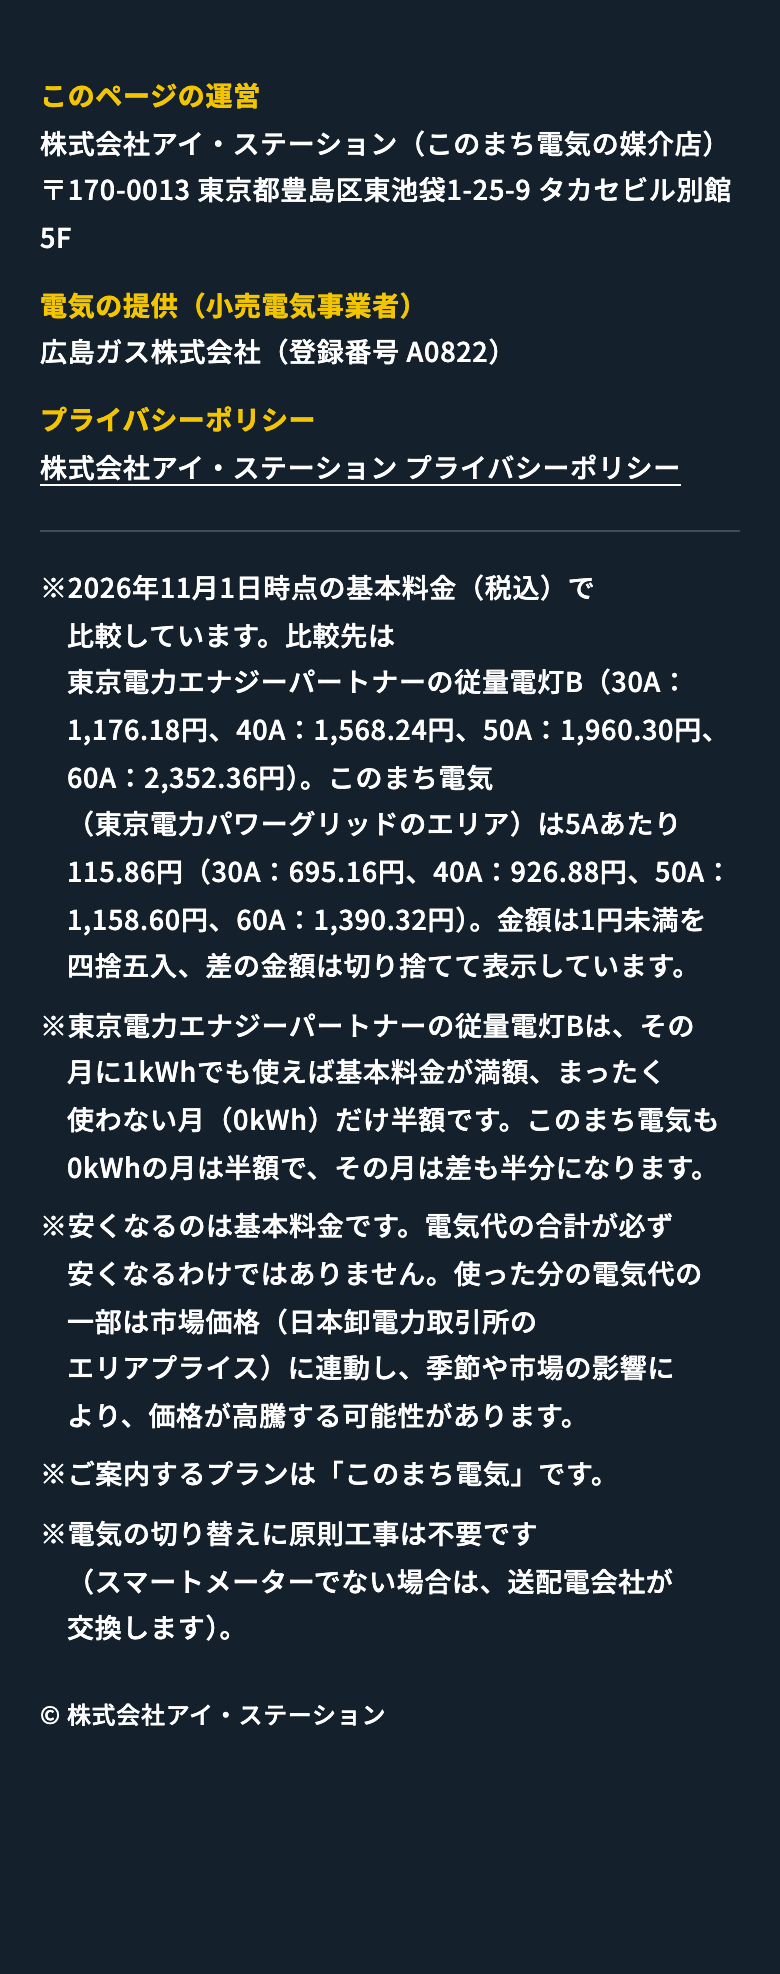
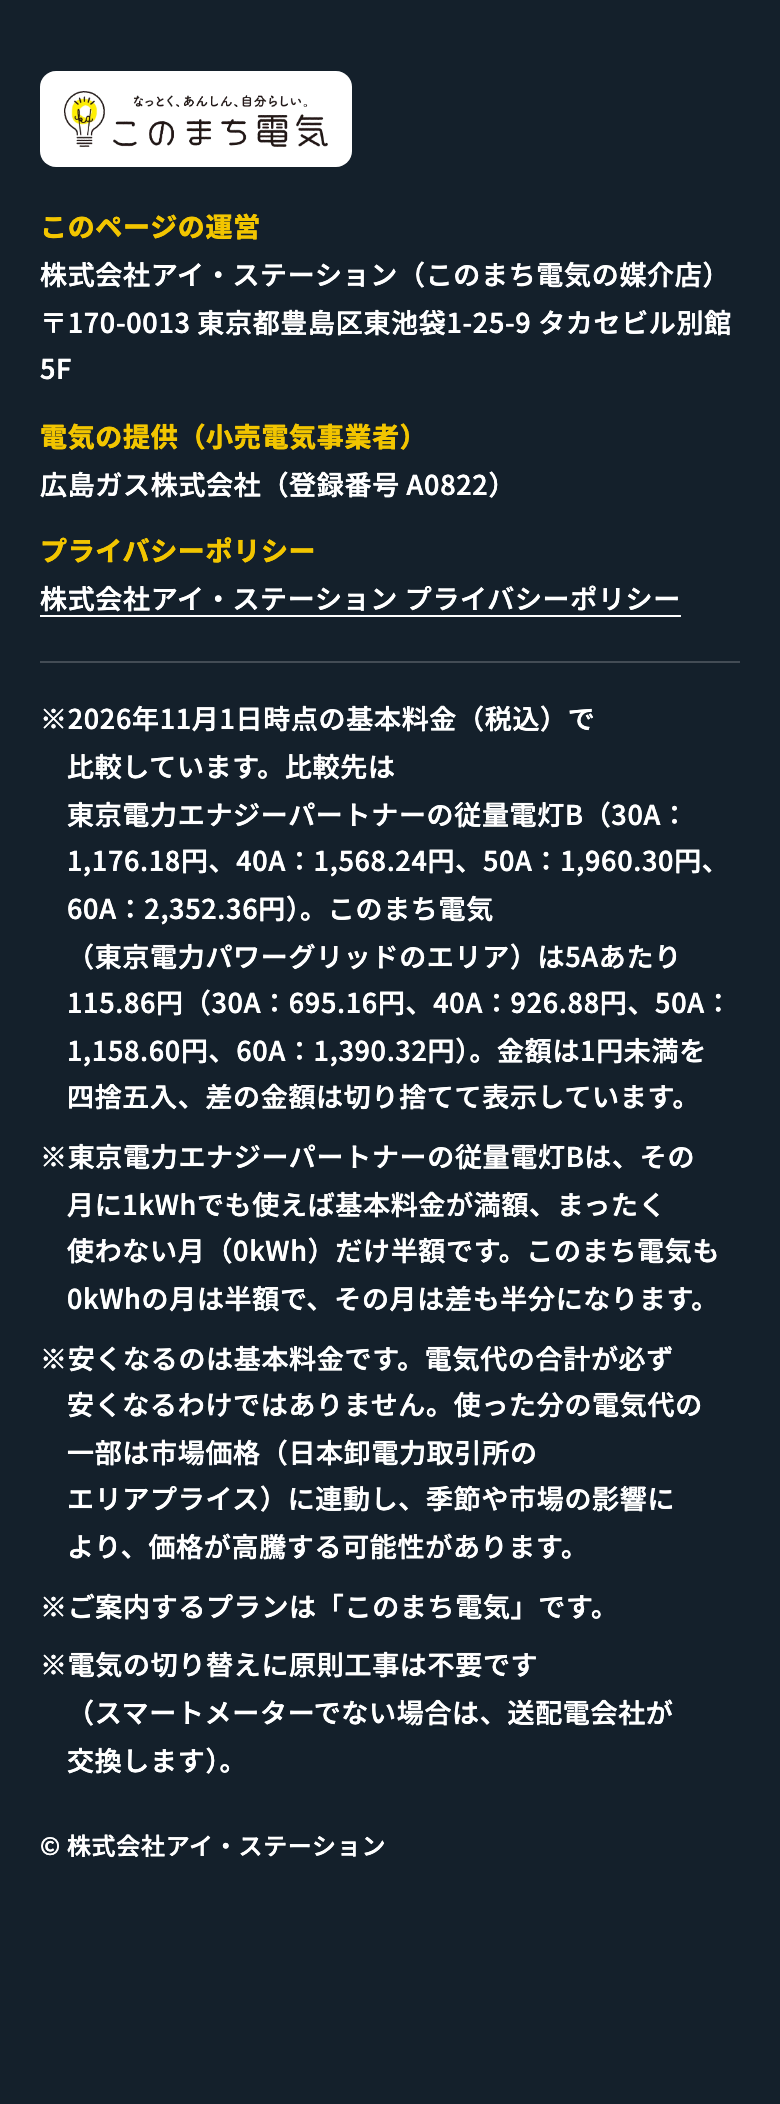
このまち電気LP比較ページ：ロゴの項目を「残して余白を修正」に差し替え
- 項目1を「ロゴ削除」から「ロゴは残し、まわりの余白を修正」に書き換え
- フッターのロゴ（修正前＝余白不足／修正後）の比較画像を追加
- 修正後のヘッダー・フッター画像を撮り直し

Claude-Session: https://claude.ai/code/session_01LnVQ1qzCtuCB4wM37JjTw1

Changed region(s): [[0.0308, 0.0309, 0.9538, 0.8961], [0.3077, 0.8652, 0.4923, 0.8961]]

diff --git a/konomachi-lp-0baec9/compare/index.html b/konomachi-lp-0baec9/compare/index.html
@@ -28,11 +28,13 @@ h1{font-size:24px;margin:0 0 4px}.lead{color:var(--sub);margin:0 0 6px;font-size
 空き家用：<a href="../akiya/">https://hito-hue.github.io/share/konomachi-lp-0baec9/akiya/</a><br>
 検索広告用：<a href="../listing/">https://hito-hue.github.io/share/konomachi-lp-0baec9/listing/</a></div>
 
-<section class="item"><h2><span class="no">1</span>ヘッダーのこのまち電気ロゴを削除</h2>
-<p class="req">ご指摘：本LPはこのまち電気を紹介するサイトのため、すみわけとして削除。</p>
-<p class="do">2本とも、ヘッダー（画面左上）のロゴを削除し、運営者「このまち電気 媒介店 株式会社アイ・ステーション」の表示のみにしました。同じ趣旨で、フッターと送信完了ページのロゴも外しています。</p>
-<span class="lp">空き家用</span><div class="ba"><div class="col"><h3>修正前</h3><div class="shot"><img src="img/akiya_before_hdr.png"></div></div><div class="col after"><h3>修正後</h3><div class="shot"><img src="img/akiya_after_hdr.png"></div></div></div>
-<span class="lp">検索広告用</span><div class="ba"><div class="col"><h3>修正前</h3><div class="shot"><img src="img/listing_before_hdr.png"></div></div><div class="col after"><h3>修正後</h3><div class="shot"><img src="img/listing_after_hdr.png"></div></div></div>
+<section class="item"><h2><span class="no">1</span>このまち電気ロゴ：ロゴは残し、まわりの余白を修正</h2>
+<p class="req">11/16のご判断（①）：ロゴは元に戻し、ロゴまわりの余白（アイソレーション）のみ修正。</p>
+<p class="do">2本とも、ヘッダー・フッター・送信完了ページのロゴを元に戻しました。そのうえで、ロゴ使用マニュアルの決まり（よこ組・タグライン入り＝ロゴの高さの0.25倍以上の余白）を全か所で確保しています。<br>・フッター：濃い色の上に敷いている白い下地の余白が上下4px（ロゴの高さの約0.13倍）しかなく不足していたため、約0.33倍に広げました。<br>・ヘッダー：背景を半透明から白一色に変更しました（スクロール中に、ロゴの後ろに下の色が透けないようにするため）。<br>上下・左右の余白がロゴの高さの0.25倍以上あることを、スマホ（幅360px・390px）とPC（幅1440px）で測って確認済みです。</p>
+<span class="lp">空き家用（フッターのロゴ）</span><div class="ba"><div class="col"><h3>修正前（余白が不足）</h3><div class="shot"><img src="img/akiya_before_logo.png"></div></div><div class="col after"><h3>修正後</h3><div class="shot"><img src="img/akiya_after_logo.png"></div></div></div>
+<span class="lp">検索広告用（フッターのロゴ）</span><div class="ba"><div class="col"><h3>修正前（余白が不足）</h3><div class="shot"><img src="img/listing_before_logo.png"></div></div><div class="col after"><h3>修正後</h3><div class="shot"><img src="img/listing_after_logo.png"></div></div></div>
+<span class="lp">空き家用（ヘッダー）</span><div class="ba"><div class="col"><h3>修正前</h3><div class="shot"><img src="img/akiya_before_hdr.png"></div></div><div class="col after"><h3>修正後</h3><div class="shot"><img src="img/akiya_after_hdr.png"></div></div></div>
+<span class="lp">検索広告用（ヘッダー）</span><div class="ba"><div class="col"><h3>修正前</h3><div class="shot"><img src="img/listing_before_hdr.png"></div></div><div class="col after"><h3>修正後</h3><div class="shot"><img src="img/listing_after_hdr.png"></div></div></div>
 </section>
 
 <section class="item"><h2><span class="no">2</span>メリット額の注釈をそろえる</h2>
